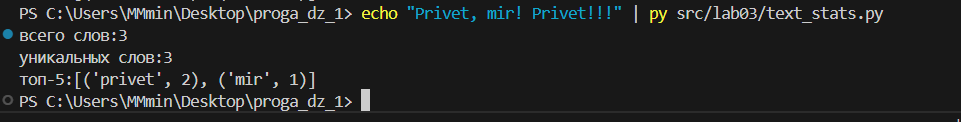
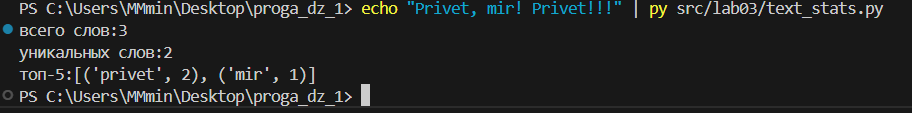
o

diff --git a/src/lab03/text_stats.py b/src/lab03/text_stats.py
@@ -10,8 +10,8 @@ def read():
     normal_text = normalize(text) 
     token_text = tokenize(text)
     print(f"всего слов:{len(token_text)}")
-    print(f"уникальных слов:{len(tokenize(normal_text))}")
-    freq = count_freq(list(tokenize(normal_text)))
+    print(f"уникальных слов:{len(set(tokenize(normal_text)))}")
+    freq = count_freq(tokenize(normal_text))
     print(f"топ-5:{top_n(freq, 5)}")
 if __name__ == "__main__":
     read()

diff --git a/README.md b/README.md
@@ -1,8 +1,7 @@
-# proga_dz_1 wow
-Lab 03
-Lab03
+# Lab03
 ```python
-def normalize(text: str, *, casefold: bool = True, yo2e: bool = True) -> str:
+import re
+def normalize(text: str, *, casefold: bool = True, yo2e: bool = True, no_punctation: bool = True) -> str:
     if not isinstance(text, str):
         return TypeError
     if casefold:
@@ -10,8 +9,10 @@ def normalize(text: str, *, casefold: bool = True, yo2e: bool = True) -> str:
     if yo2e:
         while "ё" in text or "Ё" in text:
             text = text.replace("ё", "e", 1).replace("Ё", "Е", 1)
-    text = text.replace("\t", " ").replace("\r", " ").replace("/n", " ")
+    text = text.replace("\t", " ").replace("\r", " ")
     text = ' '.join(text.split())
+    if no_punctation:
+        text = re.sub(r'[^\w\s]', '', text)
     return text
 
 import re
@@ -33,7 +34,6 @@ def count_freq(tokens: list[str]) -> dict[str, int]:
         counts[word] = counts.get(word, 0) + 1
     return counts
 
-
 def top_n(freq: dict[str, int], n: int = 5) -> list[tuple[str, int]]:
     result = []
     if not isinstance(freq, dict):
@@ -45,60 +45,45 @@ def top_n(freq: dict[str, int], n: int = 5) -> list[tuple[str, int]]:
         return TypeError
     result = sorted(freq.items(), key=lambda item: item[1], reverse=True)[:n]
     return result
-        
-    
-
-
-print("normalize")
-print(normalize("ПрИвЕт\nМИр\t"))
-print(normalize("ёжик, Ёлка"))
-print(normalize("Hello\r\nWorld"))
-print(normalize("  двойные   пробелы  "))
-
-print("tokenize")
-print(tokenize("привет мир"))
-print(tokenize("hello,world!!!"))
-print(tokenize("по-настоящему круто"))
-print(tokenize("2025 год"))
-print(tokenize("emoji 😀 не слово"))
-
-print("count_freq")
-print(count_freq(["a","b","a","c","b","a"]))
-print(count_freq(["bb","aa","bb","aa","cc"]))
-
-print("top_n")
-print(top_n(count_freq(["a","b","a","c","b","a"]), n = 2))
-print(top_n(count_freq(["bb","aa","bb","aa","cc"]), n = 2))
 ```
-![Тесты задание 1](images/lab03_images/lab3_ex1_examples.png)
+![Тест задание 1](images/lab03_images/lab3_A_examples.png)
+В normalize для корректного вывода в пункте B был добавлен параметр no_punctuation, с помощью re.findall(r'\w+(?:-\w+)*', text) 
+где r'\w+(?:-\w+)* убирает все знаки препинания, кроме тире. Используется casefold вместо lower т.к. casefold больше подходит для UTF-8 из-за того, что он учитывает специальные символы
 
-normalize
-tokenize
-count_freq
-top_n
+В tokenize функция находит все слова и добавляет их в список 
 
+В count_freq функция берет токены из словаря и при их обнаружении они добавляются в словарь. +1 увеличивает значение, а если слова еще нет в словаре добавляет со значением 1
+
+В top_n [:n] cрезает результат по значению n, в key = lambda item: item 1 item принимает параметр для сортировки по второму элементу, чтобы список сортировался по частоте, а lambda - ключ сортировки, который используется для работы со сложными структурами данных, тк она создает  однострочную функцию без использования def 
+
+## Задание В
+### ВАЖНО: Команда "echo "Privet, mir! Privet!!!" | py src/lab03/text_stats.py" т.к. Powershell не читает UTF-8, py вместо python из-за виндовс
 ```python
-from sys import stdin
+from sys import stdin, path
 import os
-directory = os.getcwd()
-module_path = os.path.join(directory, "lib")
-from lib.text import normalize, top_n, count_freq
+file_path = os.path.dirname(os.path.abspath(__file__))
+lib_path = os.path.join(file_path, "..\\lib\\text")
+path.append(lib_path)
+from text import normalize, tokenize, count_freq, top_n
+
 def read():
     text = stdin.read() 
-    normalize_text = normalize(text)  
-    print(f"всего слов: {len(normalize_text)}")
-    print(f"уникальных слов: {len(set(normalize_text))}")
-    freq = count_freq(list(normalize_text))
-    print(f"топ-5: {top_n(freq, 5)}")
+    normal_text = normalize(text) 
+    token_text = tokenize(text)
+    print(f"всего слов:{len(token_text)}")
+    print(f"уникальных слов:{len(set((tokenize(normal_text))))}")
+    freq = count_freq(tokenize(normal_text))
+    print(f"топ-5:{top_n(freq, 5)}")
 if __name__ == "__main__":
     read()
-
-# запускается только с команды "echo "Привет, мир! Привет!!!" | py src/lab03/text_stats.py" без $ и с py вместо python
-# не видит модули несмотря на __init__.py и module_path
 ```
-Lab 02
+![Тест задание 2](images/lab03_images/lab3_B_examples.png)
 
-Задание А
+Импортирование функций из другого файла происходит путем задания дороги к модулю lib, в котором находится папка с файлом с функциями. Т.к. Powershell не работает с UTF-8, строка в функции записана транскрипцией на английский, иначе символы не считываются и выдаются как ?. stdin.read отличается от eof тем, что 
+
+# Lab 02
+
+## Задание А
 ```python
 nums_minmax = [1.5, 2, 2.0, -3.1]  #сюда тест кейс 
 def min_max(nums_minmax: list[float | int]) -> tuple[float | int, float | int]:
@@ -145,7 +130,7 @@ unique_sorted превращает список в set чтобы избавит
 
 flatten берет значения из списков и кортежей, находящихся внутри списка и добавляет их поочередно в итоговый список
 
-Задание В
+## Задание В
 ```python
 transpose_mat = [[1, 2], (3, 4, 5)] #сюда тест кейс
 def transpose(transpose_mat: list[list[float | int]]) -> list[list]:
